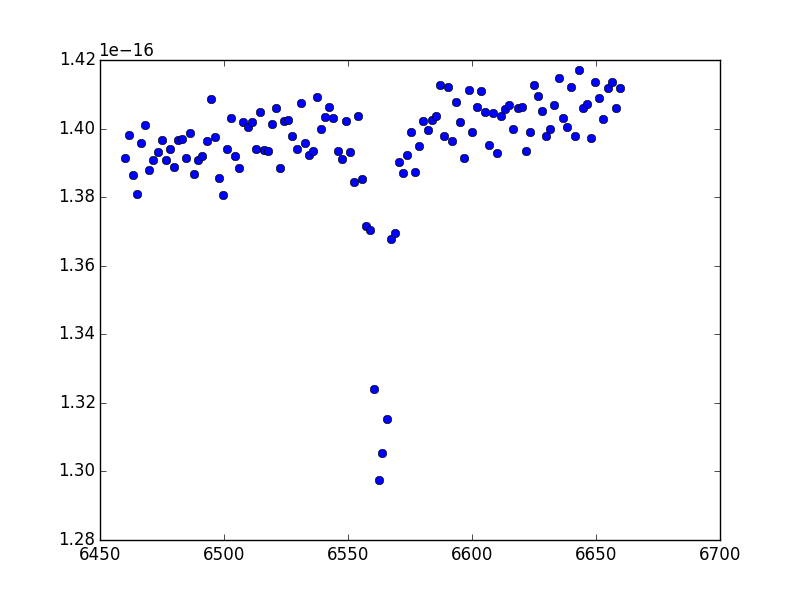
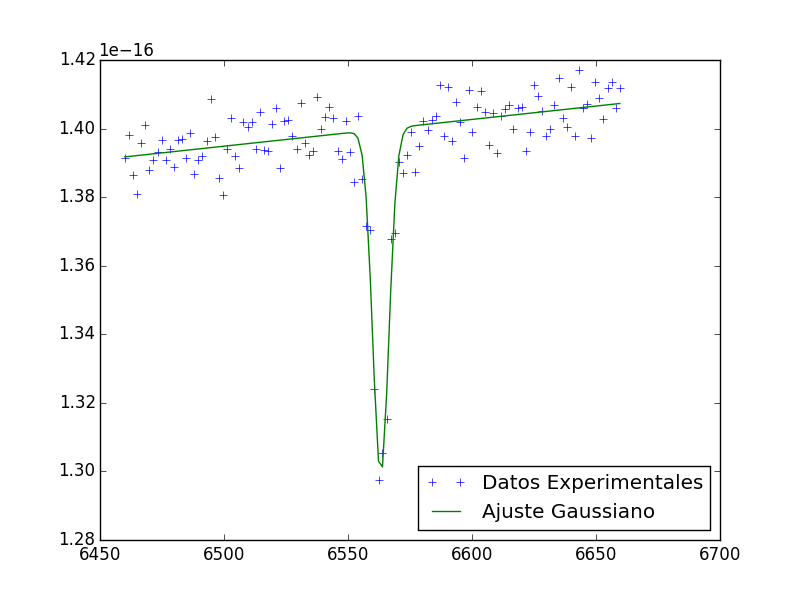
ajuste gaussiano
listo el ajuste gaussiano con su grafico

diff --git a/parte1.py b/parte1.py
@@ -24,24 +24,23 @@ def leer_archivo(nombre):
     return datos
 
 
-def recta(x, p):
+def recta(p, x):
     a, b = p
     return a * x + b
 
 
-def gaussiana(x, p):
+def gaussiana(p, x):
     A, mu, sigma = p
     y = A * scipy.stats.norm(loc=mu, scale=sigma).pdf(x)
     return y
 
 
-def plot(x, y):
+def plot(x, y, y1):
     fig = plt.figure()
     fig.clf()
     ax1 = fig.add_subplot(111)
-    ax1.plot(x, y, 'o')
-    #ax1.plot(x, y1, label="")
-    #ax1.plot(x, y2, label="")
+    ax1.plot(x, y, '+', label="Datos Experimentales")
+    ax1.plot(x, y1, '-', label="Ajuste Gaussiano")
     ax1.plot()
     ax1.set_xlabel("")
     ax1.set_ylabel("")
@@ -51,14 +50,34 @@ def plot(x, y):
     plt.show()
 
 
+def modelo1(p, x):
+    a, b, A, mu, sigma = p
+    p1 = a, b
+    p2 = A, mu, sigma
+    y1 = recta(p1, x)
+    y2 = gaussiana(p2, x)
+    return y1 - y2
+
+
+def experimental():
+    ex = leer_archivo("espectro.dat")
+    x_ex = ex[:, 0]
+    y_ex = ex[:, 1]
+    return x_ex, y_ex
+
+
+def residuo(p, x_exp, y_exp):
+    err = y_exp - modelo1(p, x_exp)
+    return err
+
+
 # inicializacion
-x = np.linspace(-5, 5, 100)
-p1 = 1, 1
-p2 = 1, 0, 1
-y1 = recta(x, p1)
-y2 = gaussiana(x, p2)
-exp = leer_archivo("espectro.dat")
-x_ex = exp[:, 0]
-y_ex = exp[:, 1]
+p1 = 1e-16 , 0
+p2 = 1e-16, 6550, 1
+p0 = p1[0], p1[1], p2[0], p2[1], p2[2]
+x_exp, y_exp = experimental()
+pf = leastsq(residuo, p0, args=(x_exp, y_exp))
 # plot
-plot(x_ex, y_ex)
+p_f = pf[0]
+y1 = modelo1(p_f, x_exp)
+plot(x_exp, y_exp, y1)
